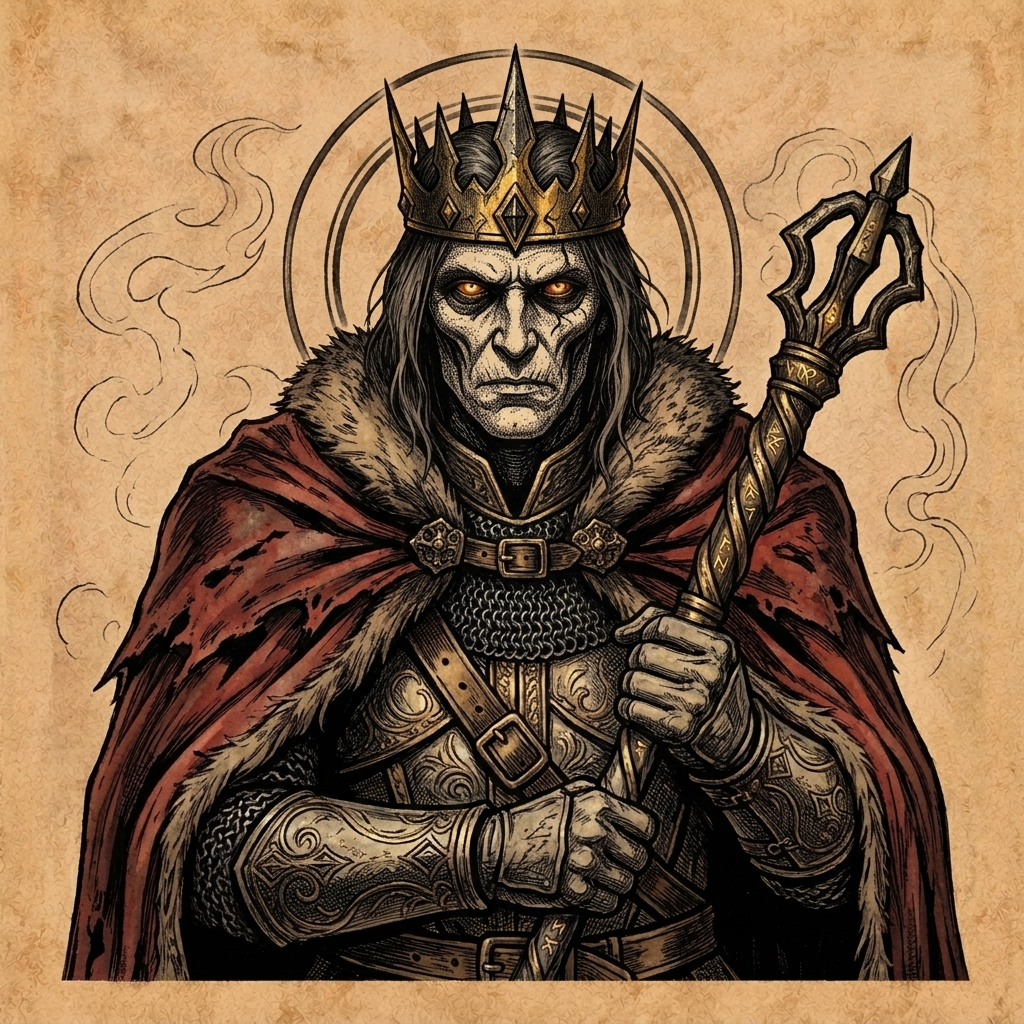
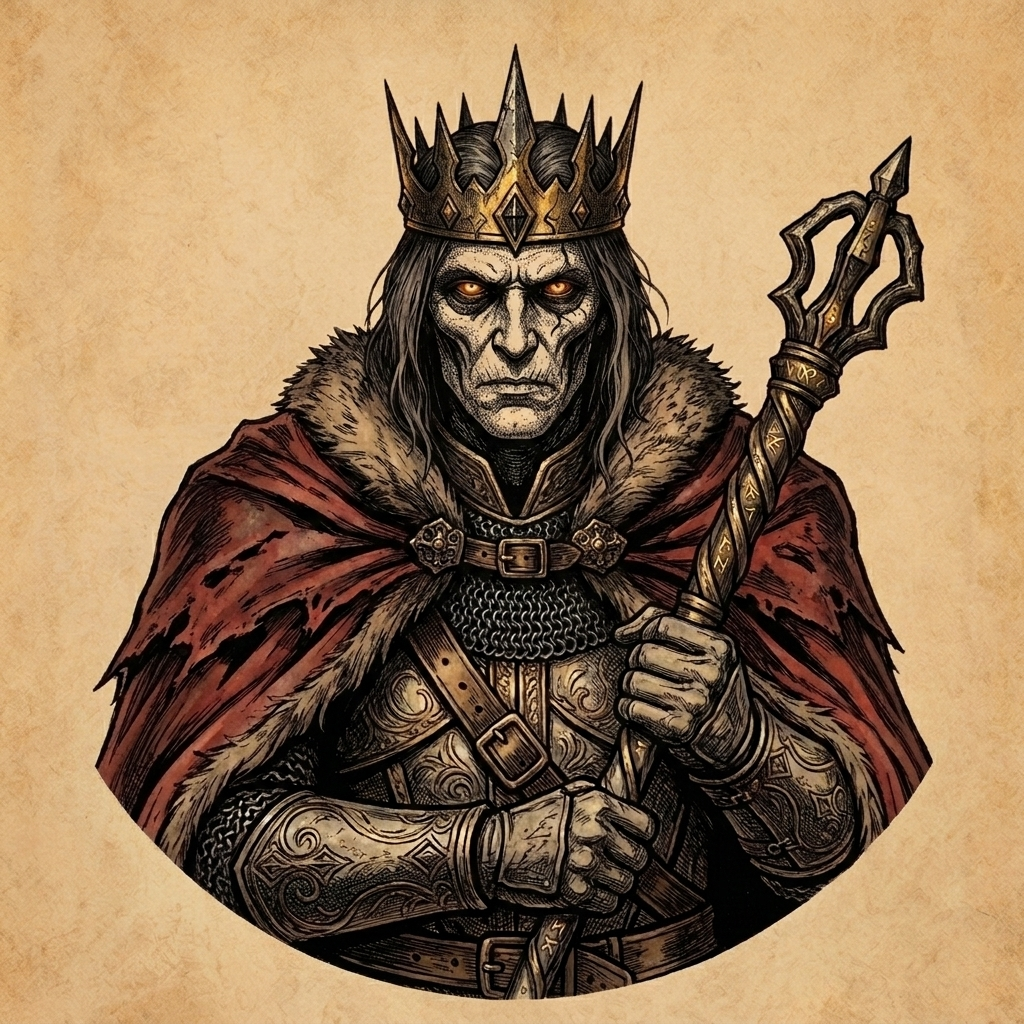
Remove halos and dark smoke from 4 hero portraits on clean parchment

diff --git a/game.js b/game.js
@@ -963,11 +963,11 @@ let prevT=false,lastLk='',flipId=null,lastTot=[0,0],lastBust=false,prevSeal='',s
 const NAMES={c:'Lanetli Tüccar',p:'Veba Doktoru',k:'Lanetli Kral',n:'Karanlık Şövalye',a:'Gölge Simyacı',s:'Kızıl Kâhin',e:'Demir Cellat',m:'Ölümün Efendisi',w:'Ölüm Büyücüsü',u:'BİLİNMEYEN'};
 const avKey=(S,p)=>{if(p===0)return (S.hero&&S.hero[0])||MY_HERO||'c';if(MODE=='bot')return (S.hero&&S.hero[1])||{easy:'c',med:'p',hard:'m',imp:'u'}[DIFF];return (S.hero&&S.hero[p])||(S.av&&S.av[p])||'c'};
 const HD_PORTRAITS={
-  c:'corrupted_merchant.jpg?v=20261116_hd2',
+  c:'corrupted_merchant.jpg?v=20261116_hd3',
   p:'plague_doctor.jpg?v=20261116_hd2',
-  k:'cursed_king.jpg?v=20261116_hd2',
-  n:'dark_knight.jpg?v=20261116_hd2',
-  a:'shadow_alchemist.jpg?v=20261116_hd2',
+  k:'cursed_king.jpg?v=20261116_hd3',
+  n:'dark_knight.jpg?v=20261116_hd3',
+  a:'shadow_alchemist.jpg?v=20261116_hd3',
   s:'crimson_oracle.jpg?v=20261116_hd2',
   e:'iron_executioner.jpg?v=20261116_hd2',
   w:'necromancer.jpg?v=20261116_hd2'

diff --git a/sw.js b/sw.js
@@ -1,4 +1,4 @@
-const C='nd-v69-parchment';
+const C='nd-v70-parchment2';
 self.addEventListener('install',e=>{e.waitUntil(caches.open(C).then(c=>c.addAll(['./','index.html','style.css','retro.css','game.js','images.js','manifest.json']).catch(()=>{})));self.skipWaiting()});
 self.addEventListener('activate',e=>e.waitUntil(caches.keys().then(k=>Promise.all(k.filter(x=>x!=C).map(x=>caches.delete(x)))).then(()=>self.clients.claim())));
 self.addEventListener('fetch',e=>{

diff --git a/index.html b/index.html
@@ -66,6 +66,6 @@
 <script src="audio_data.js?v=20261114_tavern1"></script>
 <script src="hd.js?v=20261115_hs11"></script>
 <script src="d20_canvas.js?v=20261115_mobperf1"></script>
-<script src="game.js?v=20261116_hd4"></script>
+<script src="game.js?v=20261116_hd5"></script>
 </body>
 </html>
